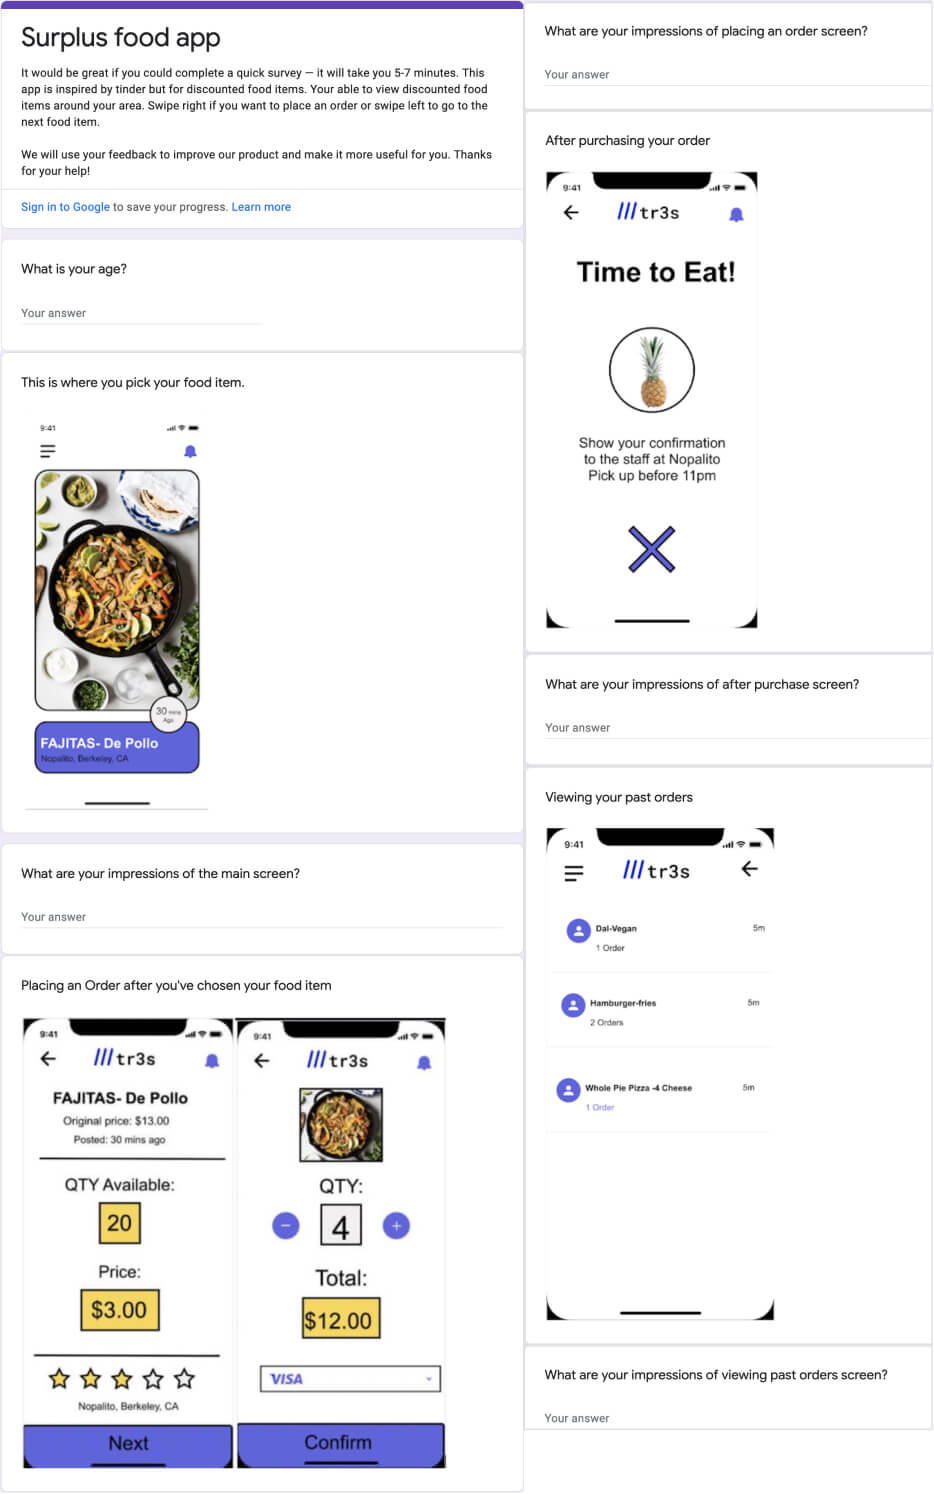
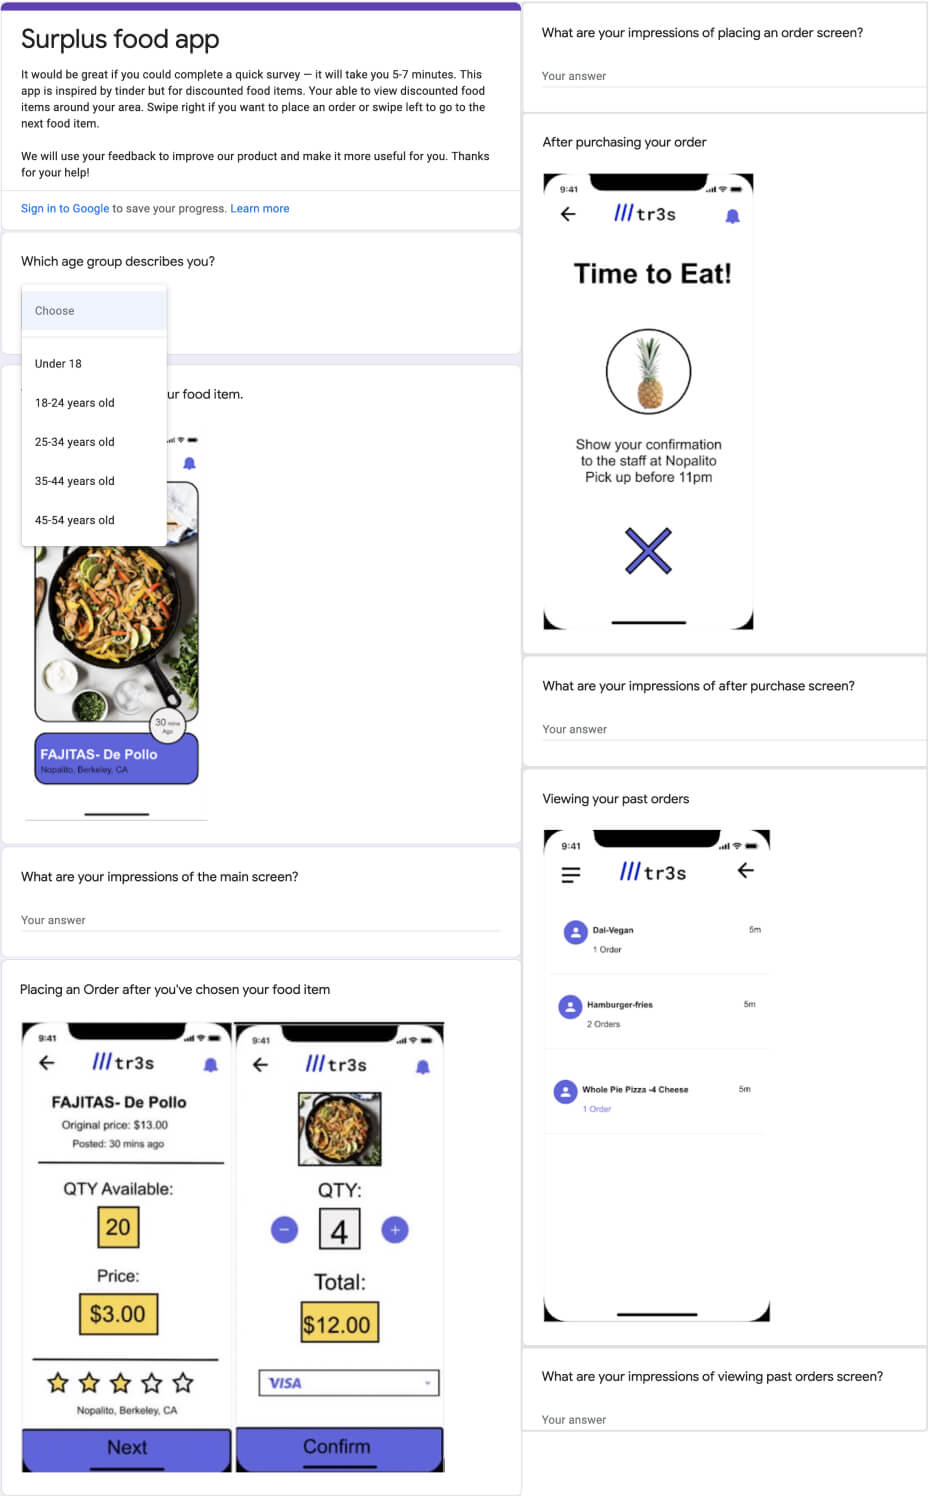
new age quiestoin

diff --git a/src/components/Modules/provision.module.css b/src/components/Modules/provision.module.css
@@ -327,7 +327,7 @@
     height: auto;
     margin-left: auto;
     margin-right: 20px;
-    margin-top: 12px;
+    margin-top: 19px;
     
   }
     /* rightxt Words */
